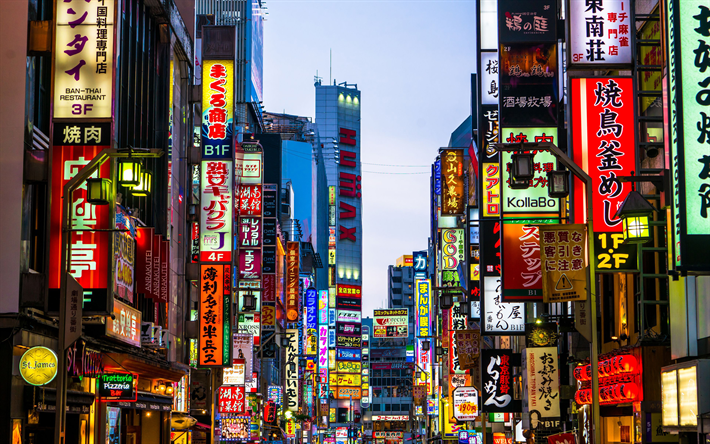
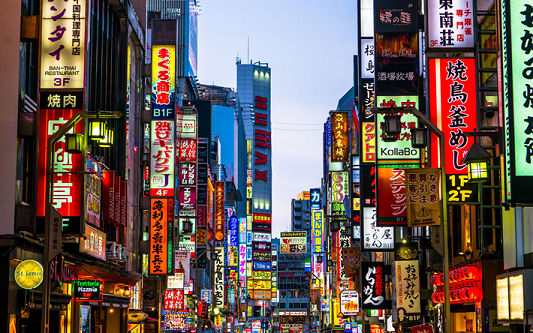
changed picture

diff --git a/index.html b/index.html
@@ -24,7 +24,7 @@
         <section class="grid grid-2-columns">
           <div>
             <img
-              src="images/lights.png"
+              src="images/Shinjuku-Wallpaper-80553.jpg"
               alt="tokyo lights"
               class="img-responsive"
             />
@@ -1050,7 +1050,7 @@
           <div>
             <h3>About me</h3>
             <p>
-              ME
+              Hi! I am Tara.
               <br />
             </p>
           </div>
